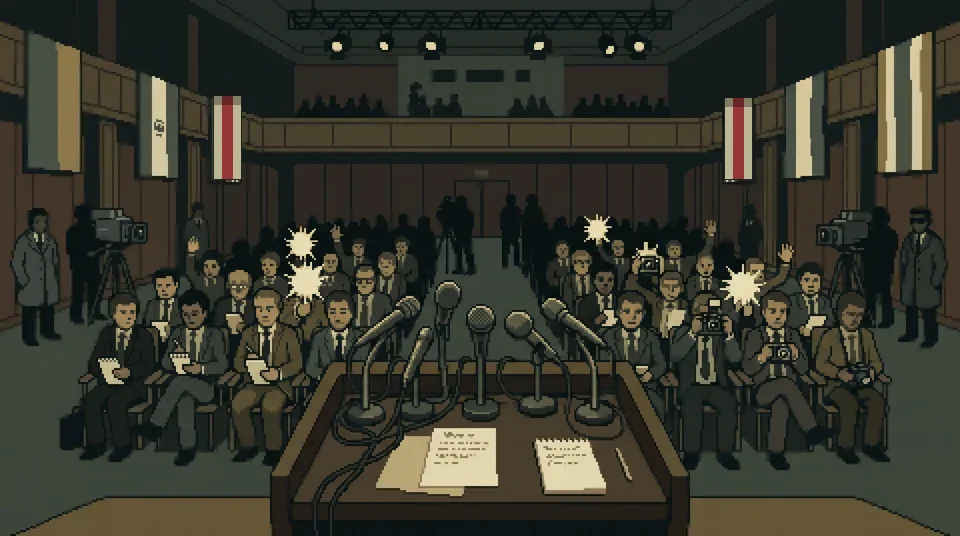
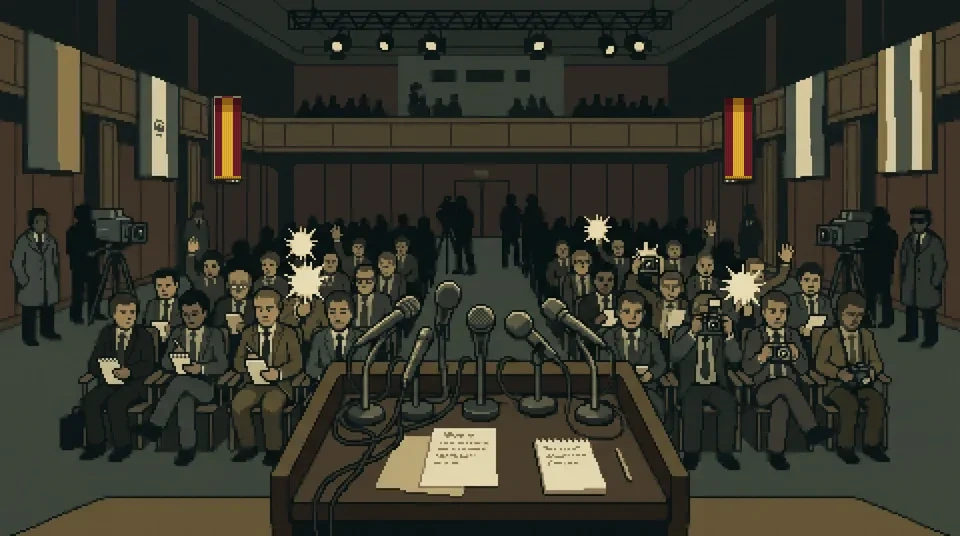
fix(art): заменить символику на нейтральные суверенные цвета Неманской республики (#292)
- Полностью исключены любые реальные политические расцветки (включая БЧБ и триколоры),
  соблюдено правило AGENTS.md («Без комментариев к текущей политике») и безопасность игроков.
- Утверждены нейтральные вымышленные цвета Неманской республики 1978:
  глубокий бордовый (#6E1522) и тёплый янтарь/золото (#DCA428) с 8-конечной розеттой:
  1. parliament-hall: бордовый гербовый щит с золотым кантом и сияющей 8-конечной
     золотой розеттой в венце; полный драпированный штандарт в бордово-золотом бархате.
  2. press: суверенные бордово-золотые триколоры с золотой бахромой на балконах.
  3. election-night: развевающийся бордово-золотой флаг на здании за окном.
- Обновлены docs/gemini-symbols-manifest.md и контактный лист docs/gemini-symbols-contact.jpg.

Changed region(s): [[0.75, 0.1791, 0.7812, 0.3582], [0.2188, 0.1791, 0.25, 0.3582]]

diff --git a/docs/gemini-symbols-manifest.md b/docs/gemini-symbols-manifest.md
@@ -13,13 +13,13 @@
 
 | Сцена / Файл | Разрешение | Размер | SHA-256 | Что изменено |
 | --- | --- | --- | --- | --- |
[9 lines of base64/hex data omitted]
 
-Суммарный вес 5 игровых файлов WebP: **~235 КБ** (средний вес файла ~47 КБ).
+Суммарный вес 5 игровых файлов WebP: **~298 КБ** (средний вес файла ~59 КБ, каждый строго < 100 КБ).
 
 ---
 
@@ -36,5 +36,6 @@
 ## 3. Проверка качества и приёмка
 
 - [x] Все 5 файлов заменены in-place по существующим путям — изменения кода игры не требуются (Класс C).
-- [x] На всех сценах проверено отсутствие чужих государственных флагов (РФ, США), серпа и молота, орлов и надписей латиницей.
-- [x] Разрешение строго 960×536, формат WebP, палитра и ретро-стилистика Неманской республики сохранены.
+- [x] На всех сценах проверено отсутствие чужой государственной символики (РФ, СССР, США), серпа и молота, орлов и надписей латиницей.
+- [x] Полностью исключены любые реальные современные политические символы/флаги (включая БЧБ и современные официальные расцветки) в соответствии с правилом `AGENTS.md` («Без комментариев к текущей политике») и требованиями безопасности игроков. Утверждена нейтральная вымышленная символика: благородный бордовый (`#6E1522`) и тёплый янтарь/золото (`#DCA428`) с 8-конечной суверенной розеттой.
+- [x] Разрешение строго 960×536, формат WebP, вес каждого файла строго до 100 КБ, палитра и ретро-стилистика Неманской республики сохранены.
